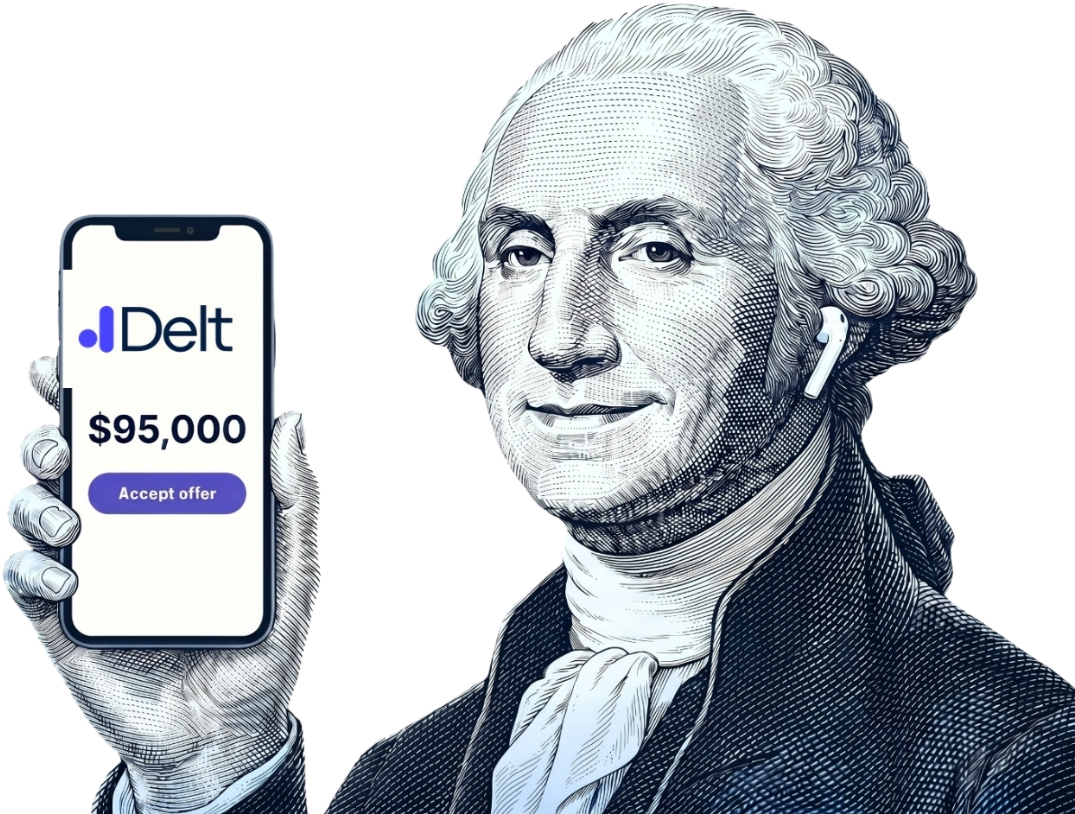
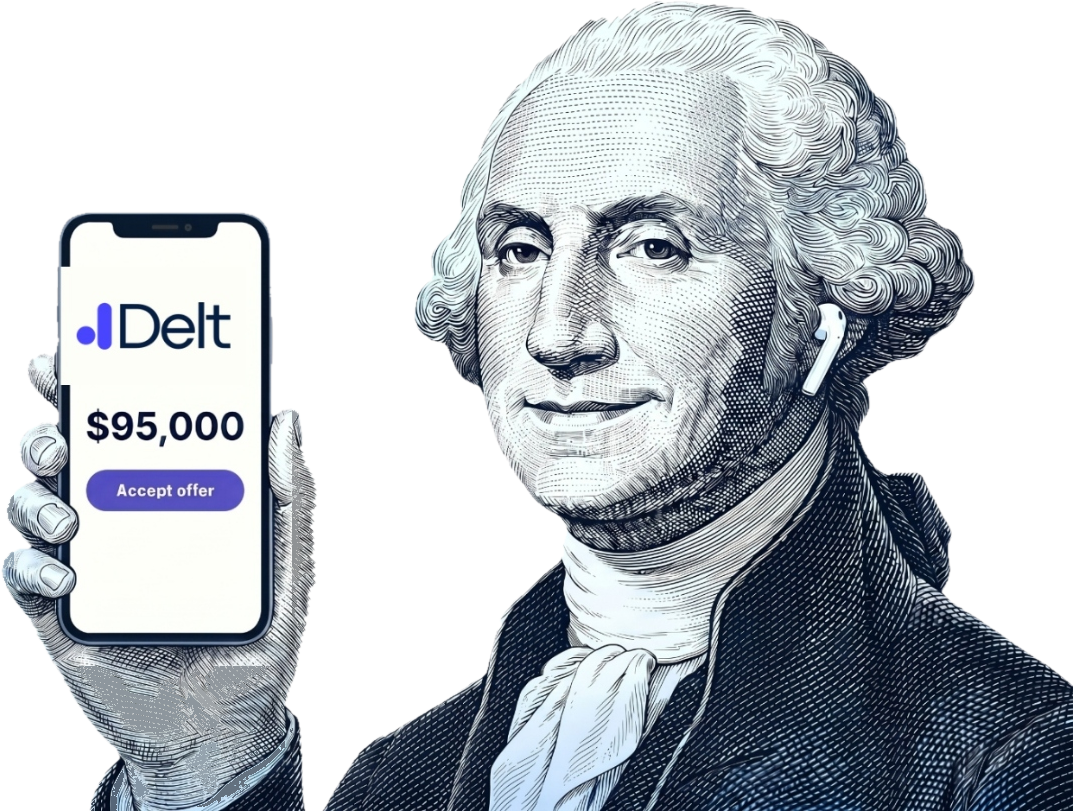
hero: darken fingertip highlights to remove white bleed; align right shoulder to viewport edge

Changed region(s): [[0.0, 0.0, 1.0, 1.0]]

diff --git a/app/variation-1.jsx b/app/variation-1.jsx
@@ -381,7 +381,7 @@ function V1Hero({ accent, onApply }) {
            the section vertically. */
         .v1hero-washington {
           position: absolute;
-          right: 6%; bottom: 0;
+          right: 0; bottom: 0;
           height: 75%; max-height: 675px;
           width: auto;
           z-index: 2; pointer-events: none;
@@ -389,7 +389,7 @@ function V1Hero({ accent, onApply }) {
           transform-origin: right bottom;
         }
         @media (max-width: 1200px) {
-          .v1hero-washington { right: 2%; }
+          .v1hero-washington { right: 0; }
         }
         @media (max-width: 900px) {
           .v1hero-washington { right: -8%; bottom: 0; height: 82%; max-height: 620px; opacity: 0.45; }
